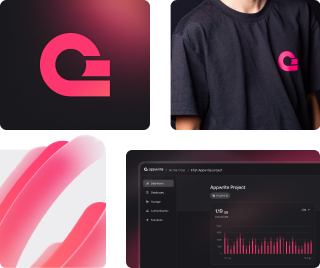
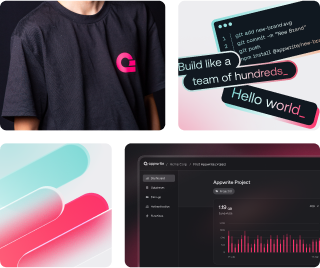
Brand Lunch page - Add more updates

diff --git a/src/routes/brand-launch/+page.svelte b/src/routes/brand-launch/+page.svelte
@@ -1263,46 +1263,26 @@
 			</div>
 			<div class="aw-big-padding-section-level-2 u-position-relative">
 				<div class="aw-container">
-					<div class="aw-hero">
-						<h4 class="aw-title aw-u-color-text-primary">Be a part of #Teamof100</h4>
-						<p class="aw-main-body-500 u-margin-block-start-4 aw-u-color-text-primary aw-u-opacity-64">
-							Join our rebrand celebration by sharing #teamof100 in your socials for a chance to win
-							brand-new Appwrite swag.
-						</p>
-						<button class="aw-button is-transparent u-cross-child-center u-margin-block-start-16">
-							<span class="aw-icon-star" aria-hidden="true" />
-							<span>Share</span>
-						</button>
-					</div>
-				</div>
-			</div>
-			<div class="aw-big-padding-section-level-2">
-				<div class="aw-container">
-					<div class="u-flex u-gap-32">
-						<div class="aw-media-container u-flex-basis-250 u-stretch">
-							<img
-								src="/images/brand/new-brand-grid-mobile.png"
-								alt="brand visual stuff"
-								width="100%"
-							/>
+					<div class="aw-grid-1-1-opt-2 u-gap-32 u-main-space-between">
+						<div class="aw-hero is-align-start aw-u-max-width-480">
+							<h4 class="aw-title aw-u-color-text-primary">Be a part of #Teamof100</h4>
+							<p class="aw-main-body-500 u-margin-block-start-4 aw-u-color-text-primary aw-u-opacity-64">
+								Join our rebrand celebration by sharing #teamof100 in your socials for a chance to win
+								brand-new Appwrite swag.
+							</p>
+							<button class="aw-button is-transparent u-margin-block-start-16 is-full-width-mobile">
+								<span class="aw-icon-star" aria-hidden="true" />
+								<span>Share</span>
+							</button>
 						</div>
 						<div class="aw-media-container u-flex-basis-250 u-stretch">
 							<img
-								src="/images/brand/new-brand-grid-mobile.png"
-								alt="brand visual stuff"
-								width="100%"
-							/>
-						</div>
-						<div class="aw-media-container u-flex-basis-250 u-stretch">
-							<img
-								src="/images/brand/new-brand-grid-mobile.png"
-								alt="brand visual stuff"
-								width="100%"
+									src="/images/brand/t-shirts.png"
+									alt="brand visual stuff"
+									width="100%"
 							/>
 						</div>
 					</div>
-					<FooterNav />
-					<MainFooter />
 				</div>
 			</div>
 		</div>

diff --git a/src/scss/6-elements/_media-container.scss b/src/scss/6-elements/_media-container.scss
@@ -1,10 +1,10 @@
 @use '../abstract' as *;
 
 .#{$p}-media-container {
-  --p-media-container-border-padding:#{pxToRem(2)};
-  --p-media-container-border-radius:#{pxToRem(7)};
+  --p-media-container-border-padding:#{pxToRem(7)};
+  --p-media-container-border-radius:#{pxToRem(20)};
 
-  --p-media-border-radius: #{pxToRem(5)};
+  --p-media-border-radius: #{pxToRem(16)};
 
   padding: var(--p-media-container-border-padding);
   border-radius: var(--p-media-container-border-radius);
@@ -15,25 +15,4 @@
   backdrop-filter: blur(pxToRem(25));
 
   > * { display:block; border-radius:var(--p-media-border-radius); overflow:hidden; }
-
-  @media #{$break2} {
-    --p-media-container-border-padding:#{pxToRem(5)};
-    --p-media-container-border-radius:#{pxToRem(18)};
-
-    --p-media-border-radius: #{pxToRem(15)};
-  }
-
-  @media #{$break3} {
-    --p-media-container-border-padding:#{pxToRem(6)};
-    --p-media-container-border-radius:#{pxToRem(22)};
-
-    --p-media-border-radius: #{pxToRem(19)};
-  }
-
-  @media #{$break4open} {
-    --p-media-container-border-padding:#{pxToRem(8)};
-    --p-media-container-border-radius:#{pxToRem(24)};
-
-    --p-media-border-radius: #{pxToRem(20)};
-  }
 }
